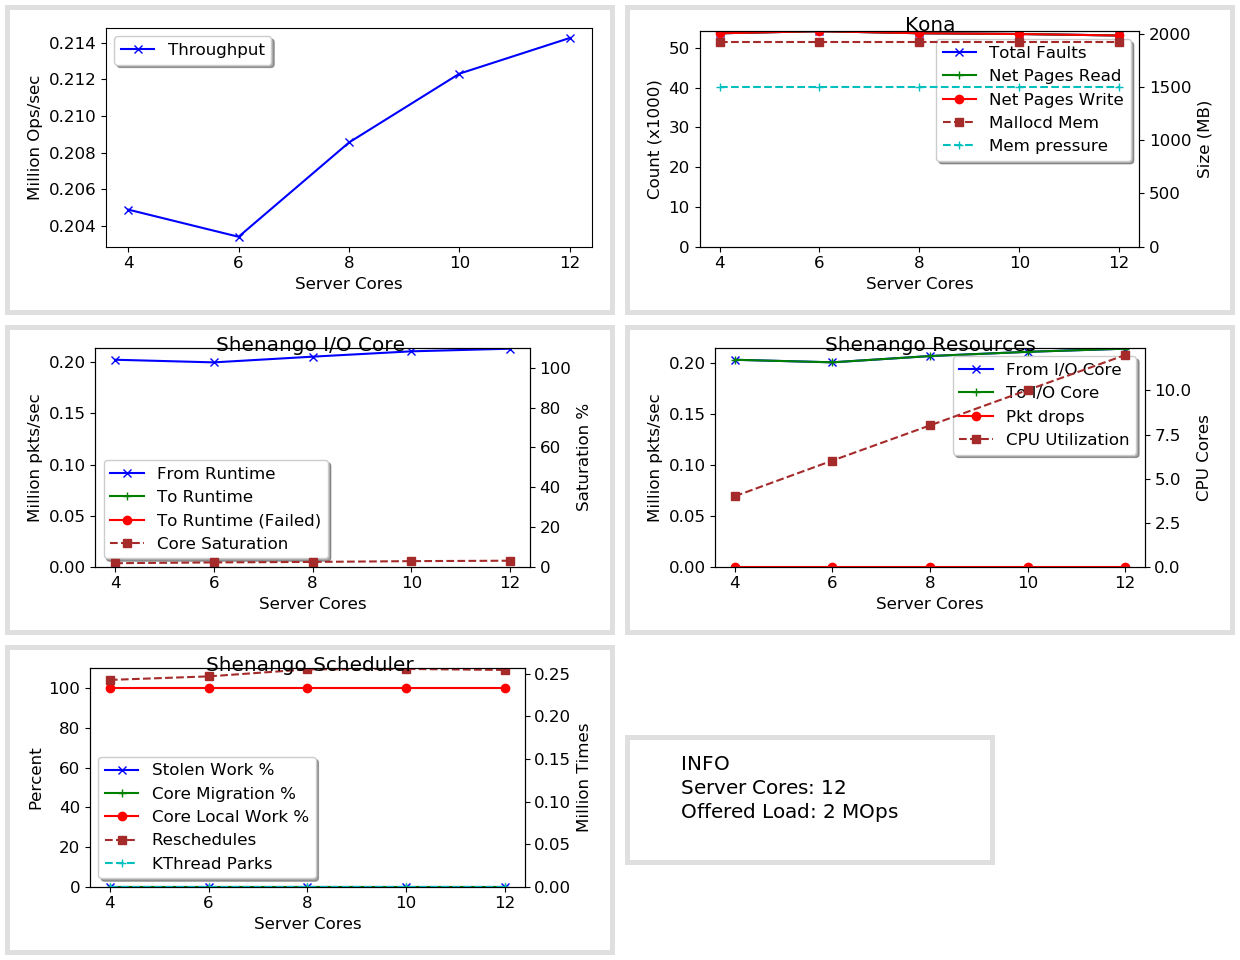
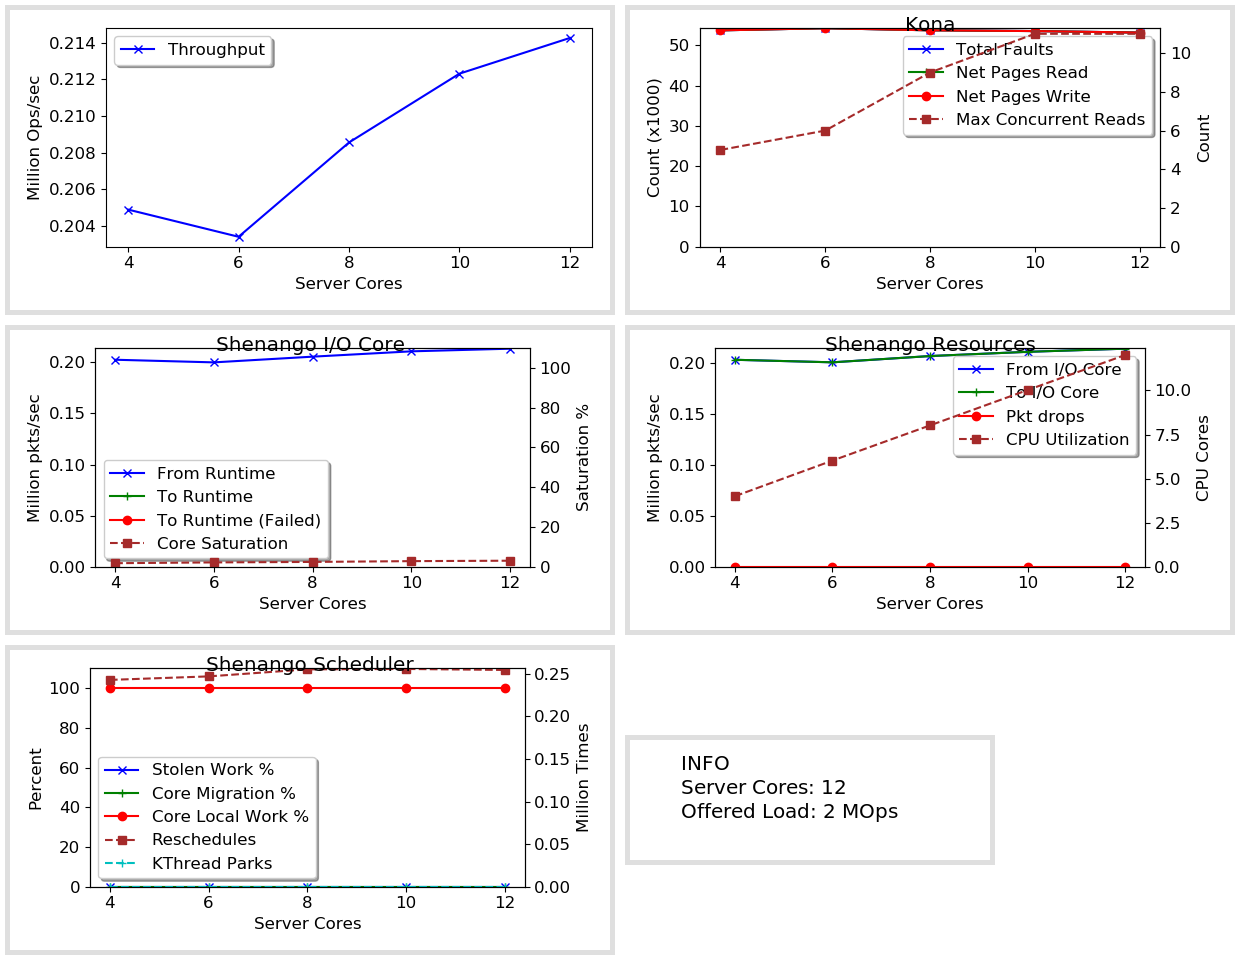
extensive kona profiling; found eviction thread bottleneck

diff --git a/summary.py b/summary.py
@@ -12,9 +12,16 @@ import glob
 
 NUMA_NODE = 1
 IOK_DISPLAY_FIELDS = ["TX_PULLED", "RX_PULLED", "IOK_SATURATION", "RX_UNICAST_FAIL"]                                   
-KONA_DISPLAY_FIELDS = ["n_faults", "n_net_page_in", "n_net_page_out", "malloc_size", "mem_pressure", "n_poller_copy_fail"]
-KONA_FIELDS_ACCUMULATED = ["n_faults_r", "n_faults_w", "n_net_page_in", "n_net_page_out", "n_faults"]
-RSTAT_DISPLAY_FIELDS = ["rxpkt", "txpkt", "drops", "cpupct", "stolenpct", "migratedpct", "localschedpct", "parks", "rescheds"]
+KONA_DISPLAY_FIELDS = ["n_faults", "n_net_page_in", "n_net_page_out", "malloc_size", 
+    "mem_pressure", "n_poller_copy_fail", "n_madvise_try"]
+KONA_DISPLAY_FIELDS_EXTENDED = ["PERF_EVICT_TOTAL", "PERF_EVICT_WP", "PERF_RDMA_WRITE", 
+    "PERF_POLLER_READ", "PERF_POLLER_UFFD_COPY", "PERF_HANDLER_RW", "PERF_PAGE_READ", 
+    "PERF_EVICT_WRITE", "PERF_HANDLER_FAULT", "PERF_EVICT_MADVISE", "PERF_HANDLER_MADV_NOTIF",
+    "PERF_HANDLER_FAULT_Q"]
+KONA_FIELDS_ACCUMULATED = ["n_faults_r", "n_faults_w", "n_net_page_in", "n_net_page_out", 
+    "n_faults", "n_madvise_try", "n_rw_fault_q"]
+RSTAT_DISPLAY_FIELDS = ["rxpkt", "txpkt", "drops", "cpupct", "stolenpct", "migratedpct", 
+    "localschedpct", "parks", "rescheds"]
 
 def percentile(latd, target):
     # latd: ({microseconds: count}, number_dropped)
@@ -207,8 +214,7 @@ def load_app_output(app, directory, first_sample_time):
         'recorded_samples': datapoints
     }
 
-def parse_kona_log(dirn, experiment):
-
+def parse_kona_accounting_log(dirn, experiment):
     fname = "{dirn}/memcached.out".format(dirn=dirn, **experiment)
     with open(fname) as f:
         data = f.read().splitlines()
@@ -228,10 +234,44 @@ def parse_kona_log(dirn, experiment):
             dats = line.split()
             time = int(dats[0])
             values = dats[1].split(",")
-            assert len(values) == 31, "unexpected kona log format"
+            assert len(values) == len(header_list), "unexpected kona log format"
             if header_list[1] == values[1]:     continue    #header
             for c in header_list[1:]:  stats[c].append((time, int(values[COL_IDX[c]])))            
             stats['n_faults'].append((time, int(values[COL_IDX['n_faults_r']]) + int(values[COL_IDX['n_faults_w']])))
+
+    # Correct timestamps: A bunch of logs may get the same timestamp 
+    # due to stdout flushing at irregular intervals. Assume that the 
+    # last log with a particular timestamp has the correct one and work backwards
+    for data in stats.values():
+        oldts = None
+        for i, (ts, val) in reversed(list(enumerate(data))):
+            if oldts and ts >= oldts:   ts = oldts - 1
+            data[i] = (ts, val)
+            oldts = ts
+
+    return dict(stats)
+
+def parse_kona_profiler_log(dirn, experiment):
+    fname = "{dirn}/memcached.out".format(dirn=dirn, **experiment)
+    with open(fname) as f:
+        data = f.read().splitlines()
+
+    header_list = ("profiler,PERF_HANDLER_FAULT,PERF_HANDLER_MADV_NOTIF,PERF_HANDLER_UFFD_WP,"
+        "PERF_HANDLER_RW,PERF_HANDLER_UFFD_COPY,PERF_HANDLER_UFFD_WP_Q,PERF_HANDLER_FAULT_Q,"
+        "PERF_RDMA_WRITE,PERF_EVICT_TOTAL,PERF_EVICT_WP,PERF_EVICT_CL_DIFF,PERF_EVICT_MEMCPY,"
+        "PERF_EVICT_WRITE,PERF_EVICT_CLEAN_CPY,PERF_EVICT_MADVISE,PERF_POLLER_ZP,PERF_POLLER_READ,"
+        "PERF_POLLER_UFFD_COPY,PERF_POLLER_CLEAN_CPY,PERF_PAGE_READ").split(",")
+    COL_IDX = {k: v for v, k in enumerate(header_list)}
+
+    stats = defaultdict(list)
+    for line in data:
+        if "profiler," in line:
+            dats = line.split()
+            time = int(dats[0])
+            values = dats[1].split(",")
+            assert len(values) == len(header_list), "unexpected kona profiler log format"
+            if header_list[1] == values[1]:     continue    #header
+            for c in header_list[1:]:  stats[c].append((time, int(values[COL_IDX[c]])))            
 
     # Correct timestamps: A bunch of logs may get the same timestamp 
     # due to stdout flushing at irregular intervals. Assume that the 
@@ -489,7 +529,8 @@ def parse_dir(dirname):
 
     experiment['mpstat'] = parse_utilization(dirname, experiment)
     experiment['ioklog'] = parse_iokernel_log(dirname, experiment)
-    experiment['konalog'] = parse_kona_log(dirname, experiment)
+    experiment['konalog'] = parse_kona_accounting_log(dirname, experiment)
+    experiment['konalogext'] = parse_kona_profiler_log(dirname, experiment)
     return experiment
 
 
@@ -509,7 +550,7 @@ def arrange_2d_results(experiment):
     header2 = ["offered", "achieved", "p50", "p90", "p99", "p999", "p9999", "distribution"]     # app
     # header3 = ["tput", "baseline", "totaloffered", "totalachieved", "totalcpu"] #, "localcpu", "ioksaturation"]
 
-    header = header1 + header2 + IOK_DISPLAY_FIELDS + KONA_DISPLAY_FIELDS + RSTAT_DISPLAY_FIELDS
+    header = header1 + header2 + IOK_DISPLAY_FIELDS + KONA_DISPLAY_FIELDS + ["outstanding"] + KONA_DISPLAY_FIELDS_EXTENDED + RSTAT_DISPLAY_FIELDS
     lines = [header]
     ncons = 0
     for list_pm in experiment['clients'].itervalues():
@@ -537,11 +578,16 @@ def arrange_2d_results(experiment):
             for field in IOK_DISPLAY_FIELDS:
                 if experiment['ioklog']:   out.append(extract_window(experiment['ioklog'][field], time, runtime))
                 else:   out.append(None)
-            lines.append(out)
             for field in KONA_DISPLAY_FIELDS:
                 if experiment['konalog']:   out.append(extract_window(experiment['konalog'][field], time, runtime, 
                                                 accumulated=(field in KONA_FIELDS_ACCUMULATED)))
                 else:   out.append(None)
+            out.append(extract_window_max(experiment['konalog']["n_poller_copy_fail"], time, runtime))
+            for field in KONA_DISPLAY_FIELDS_EXTENDED:
+                if experiment['konalogext']:   out.append(extract_window(experiment['konalogext'][field], time, runtime, 
+                                                accumulated=(field in KONA_FIELDS_ACCUMULATED)))
+                else:   out.append(None)
+            lines.append(out)
             for field in RSTAT_DISPLAY_FIELDS:
                 if point['app']['rstat']:   out.append(extract_window(point['app']['rstat'][field], time, runtime))
                 else:   out.append(None)
@@ -585,7 +631,7 @@ def do_it_all(dirname, save_lat=False, save_kona=False,
     exp = parse_dir(dirname)
     stats = arrange_2d_results(exp)
     bycol = rotate(stats)
-    START_OFFSET = 0
+    START_OFFSET = 50
     runtime = exp['clients'].itervalues().next()[0]['runtime'] + START_OFFSET
 
     STAT_F = "{}/stats/".format(dirname)
@@ -625,7 +671,7 @@ def do_it_all(dirname, save_lat=False, save_kona=False,
                     trimmed = { k:extract_window_seq(v, start, runtime) for k,v in app['rstat'].items()}
                     # print(trimmed.keys())
                     f.write("time," + ",".join(trimmed.keys()) + "\n")
-                    for i, (time, _) in enumerate(trimmed["rescheds"]):
+                    for i, (time, _) in enumerate(trimmed.values()[0]):
                         values = [str(time - start)] + [str(trimmed[k][i][1]) for k in trimmed.keys()]
                         f.write(",".join(values) + "\n")
     
@@ -642,7 +688,7 @@ def do_it_all(dirname, save_lat=False, save_kona=False,
                     trimmed = { k:extract_window_seq(v, start, runtime) for k,v in exp['ioklog'].items()}
                     # print(trimmed.keys())
                     f.write("time," + ",".join(trimmed.keys()) + "\n")
-                    for i, (time, _) in enumerate(trimmed["RX_PULLED"]):
+                    for i, (time, _) in enumerate(trimmed.values()[0]):
                         values = [str(time - start)] + [str(trimmed[k][i][1]) for k in trimmed.keys()]
                         f.write(",".join(values) + "\n")
 
@@ -650,18 +696,38 @@ def do_it_all(dirname, save_lat=False, save_kona=False,
         apps = [a for host in exp['apps'] for a in exp['apps'][host]]
         for app in apps:
             if not 'loadgen' in app: continue
-            for i, sample in enumerate(app['loadgen']):
+            for sample_id, sample in enumerate(app['loadgen']):
                 start = sample['time'] - START_OFFSET
                 print(start, runtime)
-                konafile = STAT_F + "konastats_{}".format(i)
+                konafile = STAT_F + "konastats_{}".format(sample_id)
                 print("Writing kona stats to " + konafile)
                 with open(konafile, "w") as f:
                     # FIXME: Some columns might not be cumulative
-                    trimmed = { k:extract_window_seq(v, start, runtime, accumulated=(k in KONA_FIELDS_ACCUMULATED)) 
-                                for k,v in exp['konalog'].items()}
+                    trimmed = {}
+                    for k,v in exp['konalog'].items():
+                        trimmed[k] = extract_window_seq(v, start, runtime, accumulated=(k in KONA_FIELDS_ACCUMULATED)) 
+                        # ignore first row for non-accumulated ones
+                        if k not in KONA_FIELDS_ACCUMULATED:
+                            trimmed[k] = trimmed[k][1:] 
+
                     # print(trimmed)
                     f.write("time," + ",".join(trimmed.keys()) + "\n")
-                    for i, (time, _) in enumerate(trimmed["n_faults_r"]):
+                    for i, (time, _) in enumerate(trimmed.values()[0]):
+                        values = [str(time - start)] + [str(trimmed[k][i][1]) for k in trimmed.keys()]
+                        f.write(",".join(values) + "\n")
+                
+                konafile = STAT_F + "konastats_extended_{}".format(sample_id)
+                print("Writing kona extended stats to " + konafile)
+                with open(konafile, "w") as f:
+                    trimmed = {}
+                    for k,v in exp['konalogext'].items():
+                        trimmed[k] = extract_window_seq(v, start, runtime, accumulated=(k in KONA_FIELDS_ACCUMULATED)) 
+                        # ignore first row for non-accumulated ones
+                        if k not in KONA_FIELDS_ACCUMULATED:
+                            trimmed[k] = trimmed[k][1:] 
+                    # print(trimmed)
+                    f.write("time," + ",".join(trimmed.keys()) + "\n")
+                    for i, (time, _) in enumerate(trimmed.values()[0]):
                         values = [str(time - start)] + [str(trimmed[k][i][1]) for k in trimmed.keys()]
                         f.write(",".join(values) + "\n")
 

diff --git a/experiment.py b/experiment.py
@@ -245,10 +245,6 @@ def new_measurement_instances(count, server_handle, mpps, experiment, mean=842, 
             'args': "{serverip}:{serverport} {warmup} --output={output} --protocol {protocol} --mode runtime-client --threads {client_threads} --runtime {runtime} --barrier-peers {npeers} --barrier-leader {leader}  --mean={mean} --distribution={distribution} --mpps={mpps} --samples={samples} --transport {transport} --start_mpps {start_mpps}"
         }
         warmup = kwargs.get('warmup')
-        if warmup is None:
-            if experiment['system'] not in ["arachne", "zygos"]:
-                warmup = True
-
         x["warmup"] = "--warmup" if warmup else ""
         if kwargs.get('rampup', False):
             x['args'] += " --rampup={rampup}"
@@ -688,6 +684,7 @@ def main():
     parser.add_argument('-p', '--prot', action='store', help='Transport protocol (tcp/udp), default to tcp', default="tcp")
     parser.add_argument('-nc', '--nconns', action='store', help='Number of client TCP connections, defaults to 100',type=int, default=100)
     parser.add_argument('-sc', '--scores', action='store', help='Number of server cores, defaults to 4',type=int, default=SERVER_CORES)
+    parser.add_argument('-w', '--warmup', action='store_true', help='Warm up the server before the experiment',type=int, default=False)
     parser.add_argument('--start', action='store', help='starting rate (mpps) (exclusive)', type=float, default=DEFAULT_START_MPPS)
     parser.add_argument('--finish', action='store', help='finish rate (mpps)', type=float, default=DEFAULT_MPPS)
     parser.add_argument('--steps', action='store', help='steps from start to finish', type=int, default=DEFAULT_SAMPLES)
@@ -709,8 +706,9 @@ def main():
             "shenango", args.scores, 
             name=args.name, desc=args.desc,
             start_mpps=args.start, mpps=args.finish, samples=args.steps, time=args.time,
-            kona=not args.nokona, kona_mem=args.konamem, kona_evict_thr=args.konaet, kona_evict_done_thr=args.konaedt, 
-            transport=args.prot, nconns=args.nconns
+            kona=not args.nokona, kona_mem=args.konamem, kona_evict_thr=args.konaet, 
+            kona_evict_done_thr=args.konaedt, transport=args.prot, nconns=args.nconns,
+            warmup=args.warmup
         ))
 
     elif role == role.app:

diff --git a/tools/plot.py b/tools/plot.py
@@ -405,7 +405,7 @@ def main():
     matplotlib.rc('figure', autolayout=True)
     matplotlib.rcParams['pdf.fonttype'] = 42        # required for latex embedded figures
 
-    fig, axmain = plt.subplots(1, 1, figsize=(6,3))
+    fig, axmain = plt.subplots(1, 1, figsize=(8,4))
     fig.suptitle(args.ptitle if args.ptitle else '')
     # plt.annotate(args.ptitle, (0,0), (0, -30), xycoords='axes fraction', textcoords='offset points', ha='left', va='top')
     #plt.ylim(0, 1000)
